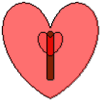
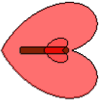
Made there weapons draw where they are facing. Club and spade are the most noticeable. They don't draw where they should, I will fix that.

diff --git a/DigIt3/src/com/dig/www/character/Diamond.java b/DigIt3/src/com/dig/www/character/Diamond.java
@@ -15,94 +15,79 @@ public class Diamond extends GameCharacter {
 	 */
 	private static final long serialVersionUID = 1L;
 	private FProjectile shield;
+
 	public Diamond(int x, int y, Board owner, boolean player) {
-		super(x, y, owner, Types.DIAMOND, "diamond", player,
-				-50, 
-				-50,
-				-50,
-				10,
-				10,
-				10, 
-				80,
-				10,
-				100,0,30,75,0,20,50, Statics.STRENGTH);
-		// TODO Auto-generated constructor stub
+		super(x, y, owner, Types.DIAMOND, "diamond", player, -50, -50, -50, 10,
+				10, 10, 80, 10, 100, 0, 30, 75, 0, 20, 50, Statics.STRENGTH);
 
 	}
 
 	@Override
 	protected void drawCSHUD(Graphics2D g2d) {
-		// TODO Auto-generated method stub
 
 	}
 
 	@Override
 	public boolean canAct() {
-		// TODO Auto-generated method stub
 		return true;
 	}
-@Override
-public void animate(){
-	if(shield==null||!shield.collideWithHook())
-	super.animate();
-	else{
-		if(owner.getCharacter()!=this)
-		basicAnimate();
-	}
-	if(shield==null){
-		for(int c=0;c<owner.getfP().size();c++){
-			if(owner.getfP().get(c).getMove()==Moves.CHAIN){
-				shield=owner.getfP().get(c);
-				break;
+
+	@Override
+	public void animate() {
+		if (shield == null || !shield.collideWithHook())
+			super.animate();
+		else {
+			if (owner.getCharacter() != this)
+				basicAnimate();
+		}
+		if (shield == null) {
+			for (int c = 0; c < owner.getfP().size(); c++) {
+				if (owner.getfP().get(c).getMove() == Moves.CHAIN) {
+					shield = owner.getfP().get(c);
+					break;
+				}
+			}
+		}
+		if (shield != null) {
+			if (!owner.getfP().contains(shield)) {
+				shield = null;
+			} else if (shield.collideWithHook()) {
+
+				image = newImage("g");
+
+				int xP = 0;
+				int yP = 0;
+				if (x + 12 < shield.getX()) {
+
+					xP = -15;
+				} else if (x - 12 > shield.getX()) {
+
+					xP = 15;
+				}
+				if (y + 12 < shield.getY()) {
+
+					yP = -15;
+				} else if (y - 12 > shield.getY()) {
+
+					yP = 15;
+				}
+
+				if (owner.getCharacter() == this) {
+					owner.setScrollX(xP);
+					owner.setScrollY(yP);
+
+				} else {
+					x -= xP;
+					y -= yP;
+				}
 			}
 		}
 	}
-	if(shield!=null){
-		if(!owner.getfP().contains(shield)){
-			shield=null;
-		}else
-		if(shield.collideWithHook()){
-			
-			image = newImage("g");
 
-			int xP=0;
-			int yP=0;
-			if(x+12<shield.getX()){
-		
-				xP=-15;
-			}else if(x-12>shield.getX()){
-			
-				xP=15;
-			}
-			if(y+12<shield.getY()){
-				
-				yP=-15;
-			}else if(y-12>shield.getY()){
-			
-				yP=15;
-			}
-			//TODO make player variable protected and switch this with player
-			if(owner.getCharacter()==this){
-				owner.setScrollX(xP);
-				owner.setScrollY(yP);
-//				x-=xP;
-//				y-=yP;
-			}
-			else{
-				x-=xP;
-				y-=yP;
-			}
-		}}
-		//}
-	}
-		
-		
-		
-		
-//}
+	// }
 	@Override
 	public void getsActor() {
-		// TODO Auto-generated method stub
+		
 
 	}
 
@@ -132,25 +117,9 @@ public void animate(){
 
 	}
 
-	// @Override
-	// public void endAction() {
-	// if(rangedTimer>0)
-	// rangedTimer=0;
-	// if(specialTimer>0)
-	// specialTimer=0;
-	// }
-	// @Override
-	// protected void timersCount() {
-	// if(rangedTimer>NEG_TIMER_NORM){
-	// rangedTimer--;
-	// }
-	// if(specialTimer>NEG_TIMER_NORM){
-	// specialTimer--;
-	// }
-	// }
 	@Override
 	public Moves getMove() {
-		// TODO Auto-generated method stub
+		
 		switch (getActing()) {
 		case 1:
 			return Moves.SHIELD;
@@ -179,11 +148,11 @@ public void animate(){
 
 	@Override
 	public Moves getRangedMove() {
-		// TODO Auto-generated method stub
 		return Moves.CHAIN;
 	}
+
 	@Override
-	public String getRangedString(){
+	public String getRangedString() {
 		return "diamond.png";
 	}
 }

diff --git a/DigIt3/src/com/dig/www/character/Club.java b/DigIt3/src/com/dig/www/character/Club.java
@@ -2,8 +2,10 @@ package com.dig.www.character;
 
 import java.awt.Color;
 import java.awt.Graphics2D;
+import java.awt.Image;
 import java.awt.Rectangle;
 
+import com.dig.www.character.GameCharacter.Direction;
 import com.dig.www.start.Board;
 import com.dig.www.util.Statics;
 
@@ -38,15 +40,16 @@ public class Club extends GameCharacter {
 	public void drawTool(Graphics2D g2d) {
 		int dX = 0;
 		int dY = 0;
-
+if(specialTimer>0)
+	energy=0;
 		switch (direction) {
 		case UP:
-			dX = x - 20;
-			dY = y - Statics.BLOCK_HEIGHT + 70;
+			dX = x;
+			dY = y - Statics.BLOCK_HEIGHT + 30;
 			break;
 
 		case DOWN:
-			dX = x + 20;
+			dX = x;
 			dY = y + Statics.BLOCK_HEIGHT - 50;
 			break;
 
@@ -56,20 +59,33 @@ public class Club extends GameCharacter {
 			break;
 
 		case LEFT:
-			dX = x - 100;
+			dX = x+50;
 			dY = y;
 			break;
 		}
-		if(toMoveString()!=null){
+	
+	
+		
+			
+			if(toMoveString()!=null){
 		if(getMove()==Moves.MPITCH){
 		
 		
 		if(specialTimer>0&&specialTimer%50<20)
-		g2d.drawImage(newImage(toMoveString()), dX, dY, owner);
+			if(direction==Direction.LEFT){
+				Image anImg=newImage(toMoveString());
+				g2d.drawImage(anImg, dX, dY,-anImg.getWidth(owner),anImg.getHeight(owner), owner);
+			}else
+				g2d.drawImage(newImage(toMoveString()), dX, dY, owner);
 	}
 		else
-			g2d.drawImage(newImage(toMoveString()), dX, dY, owner);
+			if(direction==Direction.LEFT){
+				Image anImg=newImage(toMoveString());
+				g2d.drawImage(anImg, dX, dY,-anImg.getWidth(owner),anImg.getHeight(owner), owner);
+			}else
+				g2d.drawImage(newImage(toMoveString()), dX, dY, owner);
 	}
+		
 
 		if (direction == Direction.UP)
 			g2d.drawImage(image, x, y, owner);

diff --git a/DigIt3/src/com/dig/www/character/Spade.java b/DigIt3/src/com/dig/www/character/Spade.java
@@ -2,8 +2,10 @@ package com.dig.www.character;
 
 import java.awt.Color;
 import java.awt.Graphics2D;
+import java.awt.Image;
 import java.io.ObjectInputStream.GetField;
 
+import com.dig.www.character.GameCharacter.Direction;
 import com.dig.www.start.Board;
 import com.dig.www.util.Statics;
 
@@ -72,14 +74,57 @@ public class Spade extends GameCharacter {
 		switch(getActing()){
 		case 1:
 		return getType().toString();
-		
-		
+		case 2:
+		return "bowD";
 		case 3:
 		return getType().toString();
 		default:
-			case 2:
+			
 			return null;
 		}
+	}
+	@Override
+	public void drawTool(Graphics2D g2d) {
+		int dX = 0;
+		int dY = 0;
+if(specialTimer>0)
+	energy=0;
+		switch (direction) {
+		case UP:
+			dX = x;
+			dY = y - Statics.BLOCK_HEIGHT + 30;
+			break;
+
+		case DOWN:
+			dX = x;
+			dY = y + Statics.BLOCK_HEIGHT - 50;
+			break;
+
+		case RIGHT:
+			dX = x + Statics.BLOCK_HEIGHT - 50;
+			dY = y;
+			break;
+
+		case LEFT:
+			dX = x+50;
+			dY = y;
+			break;
+		}
+		if(toMoveString()!=null){
+	
+		if(direction==Direction.LEFT){
+			Image anImg=newImage(toMoveString());
+			g2d.drawImage(anImg, dX, dY,-anImg.getWidth(owner),anImg.getHeight(owner), owner);
+		}else
+			g2d.drawImage(newImage(toMoveString()), dX, dY, owner);
+			
+			
+	}
+
+		if (direction == Direction.UP)
+			g2d.drawImage(image, x, y, owner);
+
+		timersCount();
 	}
 	@Override
 	public Moves getRangedMove() {

diff --git a/DigIt3/src/com/dig/www/character/Heart.java b/DigIt3/src/com/dig/www/character/Heart.java
@@ -1,9 +1,11 @@
 package com.dig.www.character;
 
 import java.awt.Graphics2D;
+import java.awt.Image;
 import java.awt.Rectangle;
 import java.awt.event.KeyEvent;
 
+import com.dig.www.character.GameCharacter.Direction;
 import com.dig.www.character.GameCharacter.Types;
 import com.dig.www.objects.Dispenser;
 import com.dig.www.start.Board;
@@ -100,36 +102,44 @@ specialTimer=0;
 		}
 	}
 
+	
 	@Override
 	public void drawTool(Graphics2D g2d) {
 		int dX = 0;
 		int dY = 0;
-
+if(specialTimer>0)
+	energy=0;
 		switch (direction) {
 		case UP:
 			dX = x;
-			dY = y - Statics.BLOCK_HEIGHT;
+			dY = y - Statics.BLOCK_HEIGHT + 30;
 			break;
 
 		case DOWN:
 			dX = x;
-			dY = y + Statics.BLOCK_HEIGHT;
+			dY = y + Statics.BLOCK_HEIGHT - 50;
 			break;
 
 		case RIGHT:
-			dX = x + Statics.BLOCK_HEIGHT;
+			dX = x + Statics.BLOCK_HEIGHT - 50;
 			dY = y;
 			break;
 
 		case LEFT:
-			dX = x - Statics.BLOCK_HEIGHT;
+			dX = x+50;
 			dY = y;
 			break;
 		}
-
-		if (toMoveString() != null) {
+		if(toMoveString()!=null){
+	
+		if(direction==Direction.LEFT){
+			Image anImg=newImage(toMoveString());
+			g2d.drawImage(anImg, dX, dY,-anImg.getWidth(owner),anImg.getHeight(owner), owner);
+		}else
 			g2d.drawImage(newImage(toMoveString()), dX, dY, owner);
-		}
+			
+			
+	}
 
 		if (direction == Direction.UP)
 			g2d.drawImage(image, x, y, owner);
